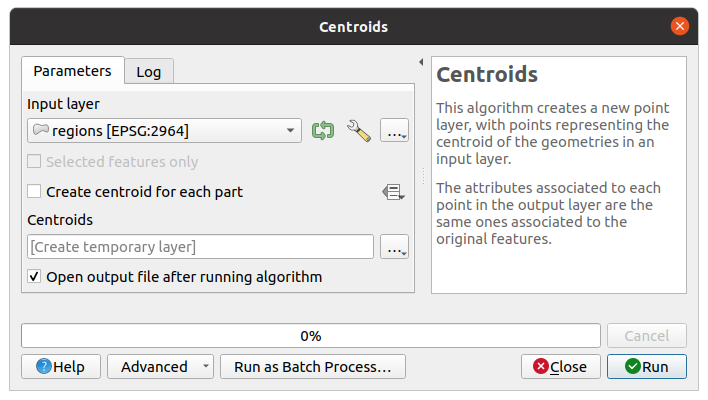
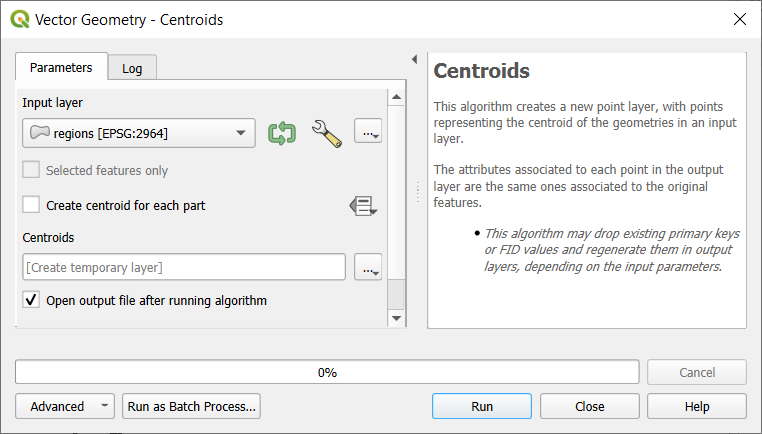
Algorithm dialog - group name - UserManual

Changed region(s): [[0.0, 0.0, 1.0, 1.0], [0.4972, 0.72, 0.5904, 0.75], [0.435, 0.45, 0.4972, 0.51]]

diff --git a/docs/user_manual/processing/toolbox.rst b/docs/user_manual/processing/toolbox.rst
@@ -72,7 +72,8 @@ The algorithm dialog
 
 Once you double-click on the name of the algorithm that you want to execute,
 a dialog similar to that in the :numref:`figure_parameters_dialog` below is shown
-(in this case, the dialog corresponds to the ``Centroids`` algorithm).
+(in this case, the dialog corresponds to the ``Centroids`` algorithm). Dialog title will include the group
+name from which the algorithm originates.
 
 .. _figure_parameters_dialog:
 
